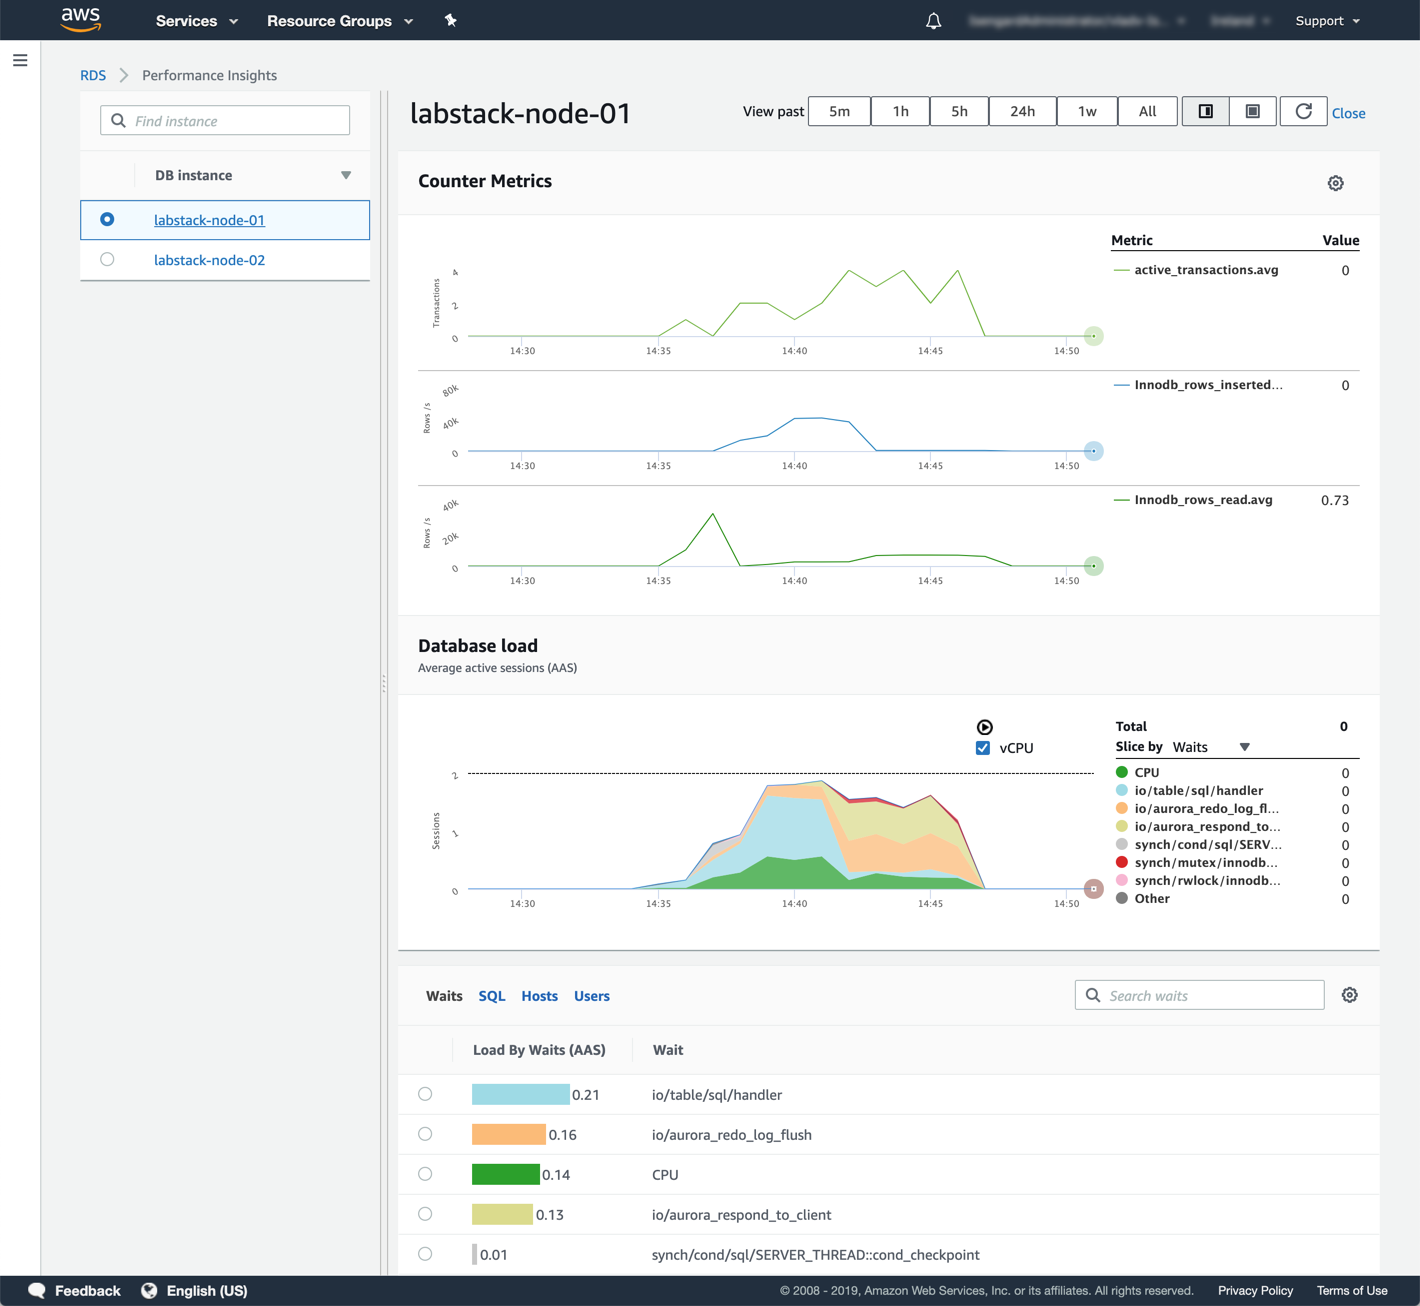
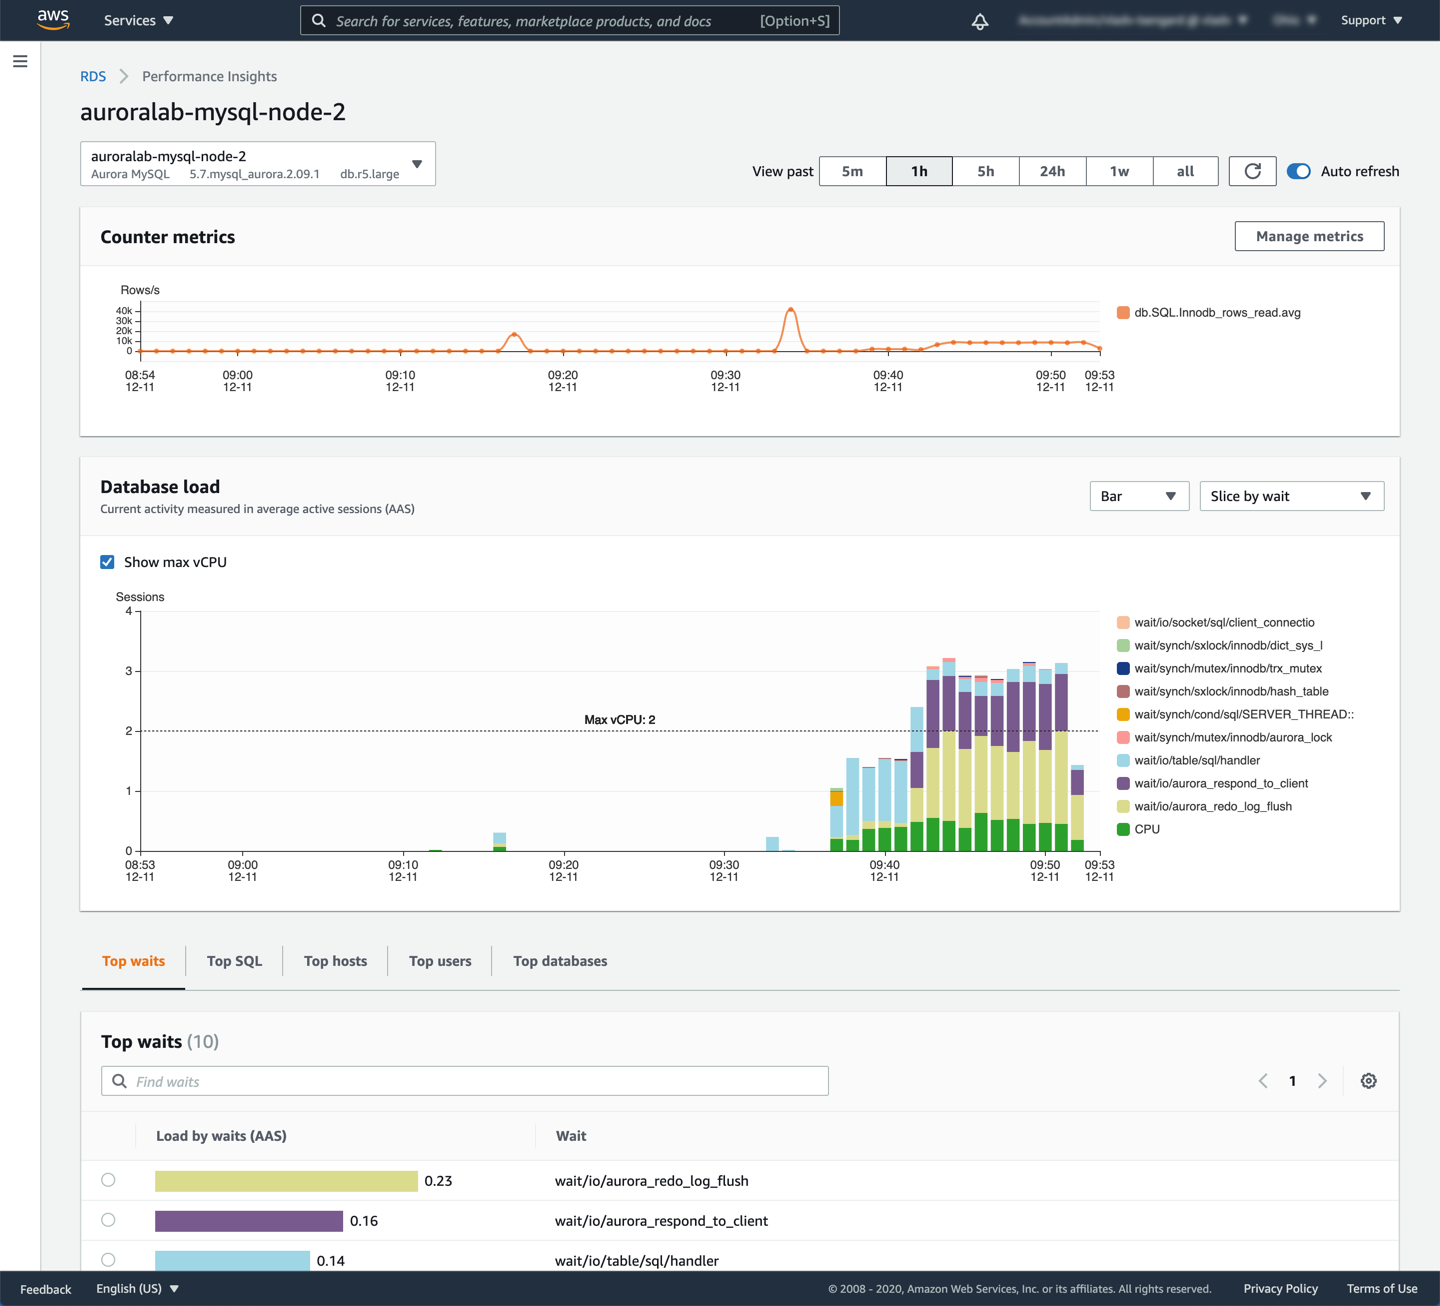
Updated screenshots: PerfIns lab

diff --git a/docs/provisioned/perf-insights/index.md b/docs/provisioned/perf-insights/index.md
@@ -53,20 +53,20 @@ The command will be sent to the workstation EC2 instance which will prepare the 
 
 ## 2. Understand the Performance Insights interface
 
-While the command is running, open the <a href="https://console.aws.amazon.com/rds/home" target="_blank">Amazon RDS service console</a> in a new tab, if not already open.
+While the command is running, open the <a href="https://console.aws.amazon.com/rds/home#database:id=auroralab-mysql-cluster;is-cluster=true;tab=monitoring" target="_blank">Amazon RDS service console</a> at the DB cluster details in a new tab, if not already open.
 
 !!! warning "Region Check"
     Ensure you are still working in the correct region, especially if you are following the links above to open the service console at the right screen.
 
-In the menu on the left hand side, click on the **Performance Insights** menu option.
+Find the DB instance in the cluster that has the **Writer** role and click on the name, to view the DB instance details. 
 
-<span class="image">![RDS Dashboard](2-menu-perf-ins.png?raw=true)</span>
+<span class="image">![RDS Dashboard](2-find-writer.png?raw=true)</span>
 
-Next, select the desired **DB instance** to load the performance metrics for. For Aurora DB clusters, performance metrics are exposed on an individual DB instance basis. As the different Db instances comprising a cluster may run different workload patterns, and might not all have Performance Insights enabled. For this lab we are generating load on the **Writer** (master) DB instance only. Select the DB instance where the name either ends in `-node-01` or `-instance-1`
+Next, select the **Monitoring** tab, click the **Monitoring** button, to expand the list of available actions, and choose **Performance Insights**. This will open a new browser tab with the **Performance Insights Dashboard** for that DB instance.
 
-<span class="image">![Select DB Instance](2-select-instance.png?raw=true)</span>
+<span class="image">![Select DB Instance](2-select-monitoring.png?raw=true)</span>
 
-Once a DB instance is selected, you will see the main dashboard view of RDS Performance Insights. The dashboard is divided into 3 sections, allowing you to drill down from high level performance indicator metrics down to individual queries, waits, users and hosts generating the load.
+The dashboard is divided into 3 sections, allowing you to drill down from high level performance indicator metrics down to individual queries, waits, users and hosts generating the load.
 
 <span class="image">![Performance Insights Dashboard](2-pi-dashboard.png?raw=true)</span>
 
